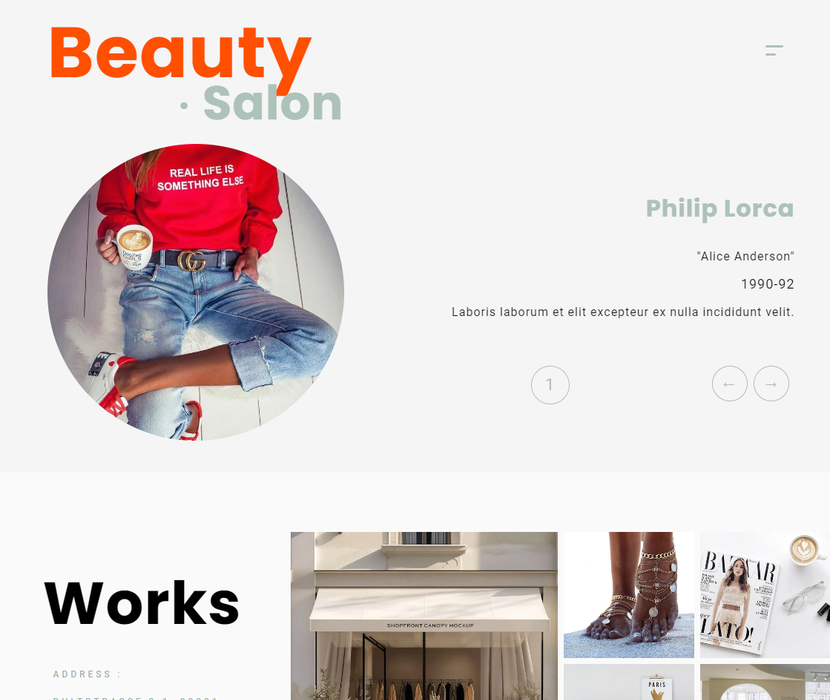
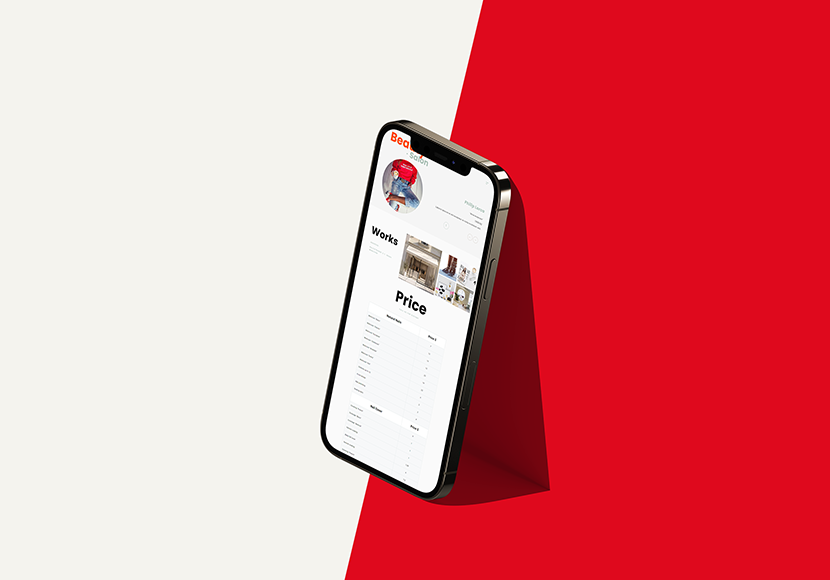
new

diff --git a/css/style.css b/css/style.css
@@ -15,6 +15,28 @@ input, button, textarea, select { font-family: inherit; font-size: inherit; }
 ol, ul { list-style: none; margin: 0; padding: 0; }
 a { color: currentColor; cursor: pointer; text-decoration: none; }
 
+/* fonts*/
+
+@font-face
+{
+	font-family : 'Poppins';
+	font-weight : 700;
+	font-style : normal;
+
+	font-display : swap;
+	src : url('../fonts/poppins-700.woff2') format('woff2');
+} 
+
+@font-face
+{
+	font-family : 'Roboto';
+	font-weight : 400;
+	font-style : normal;
+
+	font-display : swap;
+	src : url('../fonts/roboto.woff2') format('woff2');
+}
+
 /* label style */
 
 h1,

diff --git a/index.html b/index.html
@@ -15,13 +15,6 @@
 
 	<link rel="icon" type="image/svg+xml" href="img/fav.svg">
 
-	<!-- Google Fonts -->
-	<link rel="preconnect" href="https://fonts.googleapis.com">
-	<link rel="preconnect" href="https://fonts.gstatic.com" crossorigin>
-
-	<link href="https://fonts.googleapis.com/css?family=Poppins:400,700" rel="stylesheet">
-	<link href="https://fonts.googleapis.com/css?family=Roboto:400,700" rel="stylesheet" />
-
 	<!-- style CSS -->	 
 	<link rel="stylesheet" href="css/style.css" />
 
